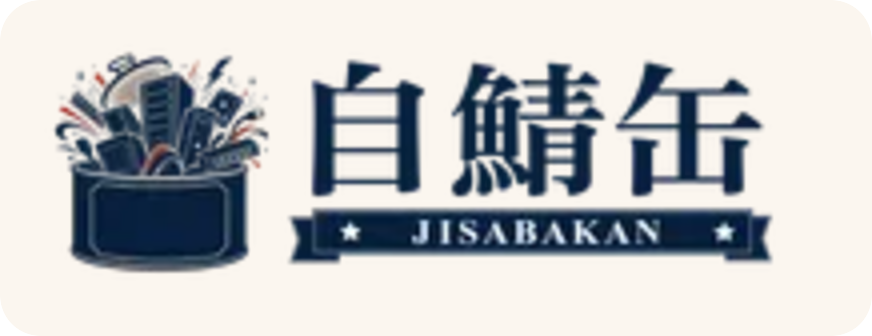
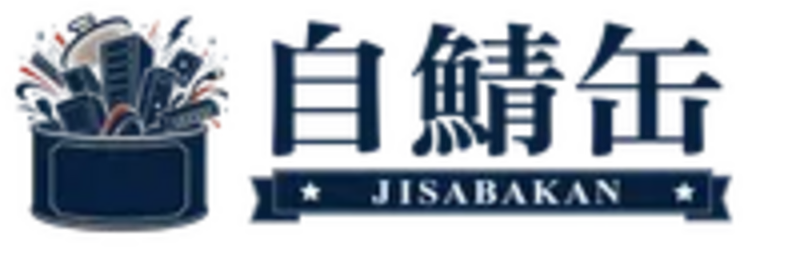
自鯖缶の背景を公式提供のものに差し替え、ヘッダ文字色を設定可能にする
- brand.base.headerTextColor を追加（default テーマのヘッダで使用。既存イベントは #ffffff）
- 自鯖缶は背景がクリーム色なのでヘッダ文字を紺 (#0e223d) にし、ロゴは角丸プレートを外した透過版に戻す

Claude-Session: https://claude.ai/code/session_012mh3kpTiPbUPDcSQgmaXWz

diff --git a/src/staticConfig/break.ts b/src/staticConfig/break.ts
@@ -21,8 +21,7 @@ export const breakConfig = {
     loadingIconSrc: '/jisaba2026/logo.png',
     loadingEnabled: true,
     loadingLogoShape: 'circle',
-    // TODO: 公式の背景画像が届いたら差し替える
-    // (仮: 公式サイトの navy-800 → navy-900 のグラデーション)
+    // 公式提供の背景（クリーム色のドット地＋下端に紺の帯）
     backgroundSrc: '/jisaba2026/background.png',
     // TODO: 自鯖缶用の BGM が届いたら public/jisaba2026/bgm/ に置いて差し替える
     // (仮: Hono Conf 2026 の BGM を流用)
@@ -38,10 +37,11 @@ export const breakConfig = {
     defaultAvatarSrc: '/jisaba2026/logo.png',
     // NOTE: ヘッダは高さ140px・width:450px/height:auto で描画されるので
     // 横長のタイトル画像を指定すること
-    // 公式サイトの横長ロゴ (198x64) を拡大して cream-100 の角丸プレートに載せたもの
-    // (ロゴが紺色で背景に沈むため。TODO: 高解像度版が届いたら差し替える)
+    // 公式サイトの横長ロゴ (198x64 の透過画像を4倍に拡大。TODO: 高解像度版が届いたら差し替える)
     headerLogoSrc: '/jisaba2026/title.png',
     headerLogoShadow: false,
+    // 背景がクリーム色なので公式サイトの navy-800
+    headerTextColor: '#0e223d',
     headerBackgroundColor: '#fbf6ef',
   },
   page1: {

diff --git a/src/themes/default/PageHeader/index.tsx b/src/themes/default/PageHeader/index.tsx
@@ -29,7 +29,10 @@ export default function Header({ view }: Props) {
       : view.selectedTrack.name
 
   return (
-    <div className="px-[20px] py-[7.5px] flex flex-row items-center w-[1920px] h-[140px] text-[#ffffff] font-din-2014 font-bold text-shadow-xs text-shadow-black/15">
+    <div
+      className="px-[20px] py-[7.5px] flex flex-row items-center w-[1920px] h-[140px] font-din-2014 font-bold text-shadow-xs text-shadow-black/15"
+      style={{ color: brand.base.headerTextColor }}
+    >
       {/* イベントタイトル */}
       <div className="basis-1/3 flex justify-center items-center">
         <Image

diff --git a/src/brand/types.ts b/src/brand/types.ts
@@ -30,6 +30,8 @@ export interface Brand {
     headerLogoSrc: string
     // ヘッダロゴに drop-shadow を付けるか (背景とロゴの色が近く輪郭が埋もれるとき用)
     headerLogoShadow: boolean
+    // Page ヘッダの文字色（時計・トラック名・ハッシュタグ）。背景が明るいイベントは濃い色にする
+    headerTextColor: string
     // Page ヘッダの帯背景色 (Tailwind 経由できないので raw で持つ)
     headerBackgroundColor: string
   }

diff --git a/src/logic/__fixtures__/brandFixtures.ts b/src/logic/__fixtures__/brandFixtures.ts
@@ -26,6 +26,7 @@ export function makeBrand(overrides?: {
       defaultAvatarSrc: '',
       headerLogoSrc: '',
       headerLogoShadow: false,
+      headerTextColor: '#ffffff',
       headerBackgroundColor: '',
     },
     page1: { seconds: 10, cardBackgroundColor: '', cardTextColor: '' },

diff --git a/src/staticConfig/breakDk.ts b/src/staticConfig/breakDk.ts
@@ -49,6 +49,7 @@ export const breakDkConfig = {
     // 横長のタイトル画像を指定すること
     headerLogoSrc: '/kinoko2026/title.png',
     headerLogoShadow: false,
+    headerTextColor: '#ffffff',
     headerBackgroundColor: '#763F03',
   },
   page1: {
